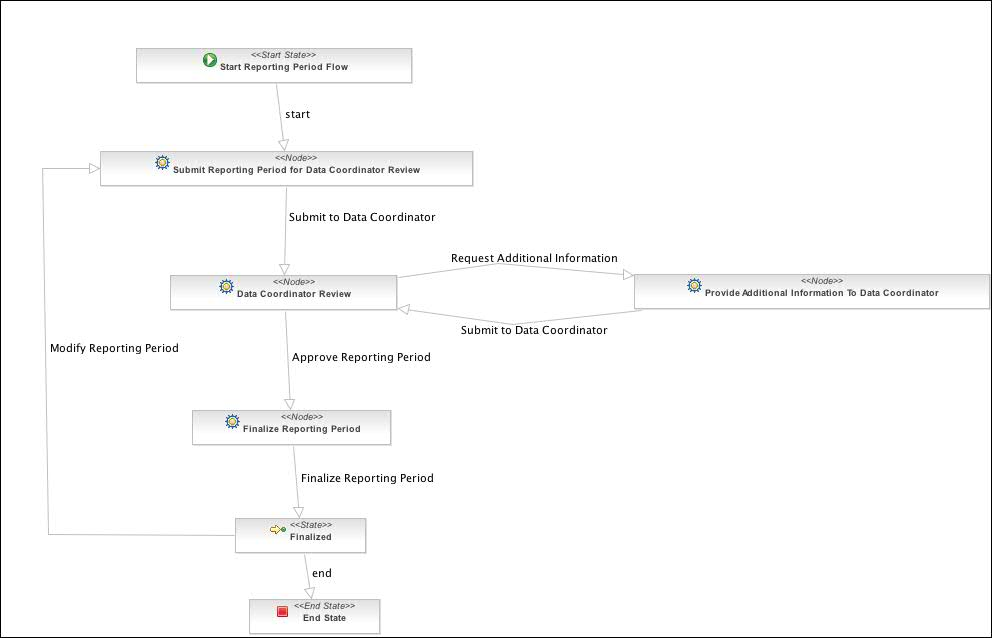
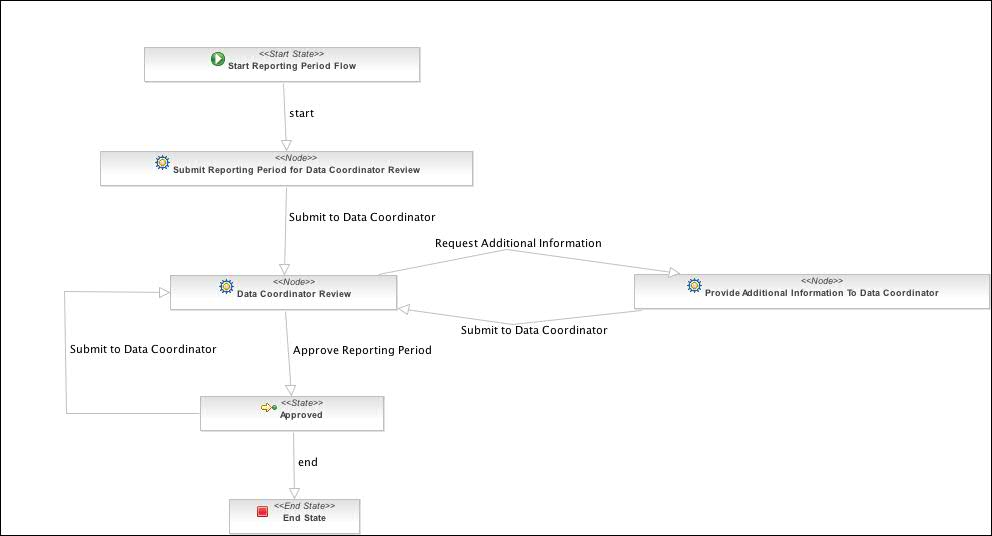
CAAERS-1305 - added bunch of tests, included filtering if actions are not there from the logged in person... All these changes are for the workflow.
SVN-Revision: 7884

diff --git a/projects/core/src/test/java/gov/nih/nci/cabig/caaers/service/workflow/WorkflowServiceImplTest.java b/projects/core/src/test/java/gov/nih/nci/cabig/caaers/service/workflow/WorkflowServiceImplTest.java
@@ -37,6 +37,7 @@ import org.jbpm.graph.exe.ExecutionContext;
 import org.jbpm.graph.exe.ProcessInstance;
 import org.jbpm.graph.exe.Token;
 import org.jbpm.taskmgmt.exe.TaskMgmtInstance;
+import org.springframework.mail.MailSendException;
 import org.springmodules.workflow.jbpm31.JbpmTemplate;
 /**
  * 
@@ -227,6 +228,64 @@ public class WorkflowServiceImplTest extends AbstractTestCase {
 		EasyMock.expect(wfConfigDao.getByWorkflowDefinitionName(processDefinition.getName())).andReturn(wfConfig);
 		EasyMock.expect(template.execute(callback)).andReturn(null);
 		caaersJavaMailSender.sendMail((String[])EasyMock.anyObject(), (String)EasyMock.anyObject(), (String) EasyMock.anyObject(), (String[])EasyMock.anyObject());
+		//expect(configuration.get(Configuration.CAAERS_BASE_URL)).andReturn("www.abcd.com");
+		replayMocks();
+		wfService.setCaaersJavaMailSender(caaersJavaMailSender);
+		wfService.createTaskInstances(callback);
+		verifyMocks();
+	}
+	
+	
+	public void testCreatTaskInstances_ThrowingMailSendException() {
+		String nodeName = "a1";
+		
+		List<User> taskAssigneesList = new ArrayList<User>();
+		Investigator inv1 = Fixtures.createInvestigator("test1");
+		inv1.setEmailAddress("joel1@abc.com");
+		inv1.setLoginId("joel1@abc.com");
+		
+		Investigator inv2 = Fixtures.createInvestigator("test2");
+		inv2.setEmailAddress("joel2@abc.com");
+		inv2.setLoginId("joel2@abc.com");
+		
+		taskAssigneesList.add(inv1);
+		taskAssigneesList.add(inv2);
+		
+
+		ProcessDefinition processDefinition = new ProcessDefinition();
+		processDefinition.setName("Test");
+		ProcessInstance pInstance = new ProcessInstance();
+		pInstance.setProcessDefinition(processDefinition);
+		
+		final Node node = new Node();
+		node.setName(nodeName);
+		
+		Token token = new Token();
+		token.setNode(node);
+		token.setProcessInstance(pInstance);
+		final TaskMgmtInstance taskMgmtInstance = registerMockFor(TaskMgmtInstance.class);
+		
+		ExecutionContext executionContext = new ExecutionContext(token){
+			@Override
+			public TaskMgmtInstance getTaskMgmtInstance() {
+				return taskMgmtInstance;
+			}
+			@Override
+			public ContextInstance getContextInstance() {
+				ContextInstance c = super.getContextInstance();
+				Map variables = new HashMap();
+				c.setVariables(variables);
+				return c;
+			}
+		};
+		
+		
+		CaaersJavaMailSender caaersJavaMailSender = registerMockFor(CaaersJavaMailSender.class);
+		CreateTaskJbpmCallback callback = new CreateTaskJbpmCallback(executionContext, taskAssigneesList);
+		EasyMock.expect(wfConfigDao.getByWorkflowDefinitionName(processDefinition.getName())).andReturn(wfConfig);
+		EasyMock.expect(template.execute(callback)).andReturn(null);
+		caaersJavaMailSender.sendMail((String[])EasyMock.anyObject(), (String)EasyMock.anyObject(), (String) EasyMock.anyObject(), (String[])EasyMock.anyObject());
+		EasyMock.expectLastCall().andThrow(new MailSendException("Test"));
 		//expect(configuration.get(Configuration.CAAERS_BASE_URL)).andReturn("www.abcd.com");
 		replayMocks();
 		wfService.setCaaersJavaMailSender(caaersJavaMailSender);

diff --git a/projects/core/src/test/java/gov/nih/nci/cabig/caaers/service/workflow/WorkflowServiceImplIntegrationTest.java b/projects/core/src/test/java/gov/nih/nci/cabig/caaers/service/workflow/WorkflowServiceImplIntegrationTest.java
@@ -75,7 +75,7 @@ public class WorkflowServiceImplIntegrationTest extends CaaersDbTestCase {
 			assertFalse(nextTransitions.isEmpty());
 			assertEquals(1, nextTransitions.size());
 			assertEquals("Approve Reporting Period", nextTransitions.get(0).getName());
-			assertEquals("Finalize Reporting Period", nextTransitions.get(0).getTo().getName());
+			assertEquals("Approved", nextTransitions.get(0).getTo().getName());
 		}
 	}
 	public void testNextTransitionNames() {
@@ -110,7 +110,7 @@ public class WorkflowServiceImplIntegrationTest extends CaaersDbTestCase {
 			assertFalse(nextTransitions.isEmpty());
 			assertEquals(1, nextTransitions.size());
 			assertEquals("Approve Reporting Period", nextTransitions.get(0).getName());
-			assertEquals("Finalize Reporting Period", nextTransitions.get(0).getTo().getName());
+			assertEquals("Approved", nextTransitions.get(0).getTo().getName());
 		}
 	}
 	
@@ -145,18 +145,17 @@ public class WorkflowServiceImplIntegrationTest extends CaaersDbTestCase {
 		{
 			List<Transition> nextTransitions = wfService.nextTransitions(id, loginId);
 			assertEquals("Approve Reporting Period", nextTransitions.get(0).getName());
-			assertEquals("Finalize Reporting Period", nextTransitions.get(0).getTo().getName());
+			assertEquals("Approved", nextTransitions.get(0).getTo().getName());
 			nextTransition = "Approve Reporting Period";
 		}
 		interruptSession();
 		{
 			ReviewStatus status = wfService.advanceWorkflow(id, nextTransition);
-			assertEquals(ReviewStatus.READY_FOR_FINALIZE, status);
+			assertEquals(ReviewStatus.APPROVED, status);
 			List<TaskInstance> taskInstances = wfService.fetchTaskInstances("datacoordinator@abc.com");
 			assertNotNull(taskInstances);
-			assertFalse(taskInstances.isEmpty());
-			assertEquals("Finalize Reporting Period", taskInstances.get(0).getName());
-			assertEquals("Only one task to be created",1, taskInstances.size());
+			assertTrue(taskInstances.isEmpty());
+			
 		}
 		
 		
@@ -183,10 +182,10 @@ public class WorkflowServiceImplIntegrationTest extends CaaersDbTestCase {
 		String nextTransition ="Approve Reporting Period";
 		{
 			ReviewStatus status = wfService.advanceWorkflow(id.intValue(), nextTransition);
-			assertEquals(ReviewStatus.READY_FOR_FINALIZE, status);
+			assertEquals(ReviewStatus.APPROVED, status);
 			List<TaskInstance> taskInstances = wfService.fetchTaskInstances("datacoordinator@abc.com");
 			assertNotNull(taskInstances);
-			assertFalse(taskInstances.isEmpty());
+			assertTrue(taskInstances.isEmpty());
 		}
 		interruptSession();
 		{

diff --git a/projects/core/src/test/java/gov/nih/nci/cabig/caaers/domain/dto/AdverseEventReportingPeriodDTOTest.java b/projects/core/src/test/java/gov/nih/nci/cabig/caaers/domain/dto/AdverseEventReportingPeriodDTOTest.java
@@ -1,0 +1,48 @@
+package gov.nih.nci.cabig.caaers.domain.dto;
+
+import java.util.ArrayList;
+import java.util.List;
+
+import junit.framework.TestCase;
+
+public class AdverseEventReportingPeriodDTOTest extends TestCase {
+	AdverseEventReportingPeriodDTO dto;
+	
+	protected void setUp() throws Exception {
+		super.setUp();
+		dto = new AdverseEventReportingPeriodDTO();
+		
+	}
+
+	public void testHasActionsToDo() {
+		assertFalse(dto.hasActionsToDo());
+	}
+	
+	public void testHasActionsToDo_WhenReportingPeriodHasOne(){
+		List<String> actions = new ArrayList<String>();
+		actions.add("something");
+		dto.setPossibleActions(actions);
+		assertTrue(dto.hasActionsToDo());
+	}
+	
+	public void testHasActionsToDo_IfAeReportHasOne() {
+		ExpeditedAdverseEventReportDTO ae1 = new ExpeditedAdverseEventReportDTO();
+		List<String> actions = new ArrayList<String>();
+		actions.add("something");
+		ae1.setPossibleActions(actions);
+		dto.addAdverseEventAeReportDTO(ae1);
+		assertTrue(dto.hasActionsToDo());
+	}
+	public void testHasActionsToDo_IfAeReportHasNone() {
+		ExpeditedAdverseEventReportDTO ae1 = new ExpeditedAdverseEventReportDTO();
+		
+		dto.addAdverseEventAeReportDTO(ae1);
+		assertFalse(dto.hasActionsToDo());
+	}
+	public void testHasActionsToDo_WhenReportingPeriodHasOneAndAeReportHasNone(){
+		List<String> actions = new ArrayList<String>();
+		actions.add("something");
+		dto.setPossibleActions(actions);
+		assertTrue(dto.hasActionsToDo());
+	}
+}

diff --git a/projects/core/src/test/java/gov/nih/nci/cabig/caaers/domain/workflow/WorkflowConfigTest.java b/projects/core/src/test/java/gov/nih/nci/cabig/caaers/domain/workflow/WorkflowConfigTest.java
@@ -1,0 +1,45 @@
+package gov.nih.nci.cabig.caaers.domain.workflow;
+
+import junit.framework.TestCase;
+
+public class WorkflowConfigTest extends TestCase {
+	WorkflowConfig wfConfig;
+	protected void setUp() throws Exception {
+		super.setUp();
+		wfConfig = new WorkflowConfig();
+		TaskConfig t1 = new TaskConfig();
+		t1.setTaskName("abcd");
+		t1.setApplicable(true);
+		
+		TaskConfig t2 = new TaskConfig();
+		t2.setTaskName("efg");
+		t2.setApplicable(true);
+		
+		wfConfig.addTaskConfigs(t1);
+		wfConfig.addTaskConfigs(t2);
+	}
+
+	public void testAddTaskConfigs() {
+		TaskConfig t3 = new TaskConfig();
+		t3.setTaskName("hijk");
+		t3.setApplicable(true);
+		wfConfig.addTaskConfigs(t3);
+		
+		assertSame(t3, wfConfig.getTaskConfigs().get(2));
+	}
+
+	public void testIsTaskActive() {
+		boolean active = wfConfig.isTaskActive("abcd");
+		assertTrue(active);
+	}
+
+	public void testFindTaskConfig() {
+		TaskConfig t4 = new TaskConfig();
+		t4.setTaskName("kkk");
+		t4.setApplicable(true);
+		assertNull(wfConfig.findTaskConfig("kkk"));
+		wfConfig.addTaskConfigs(t4);
+		assertSame(t4, wfConfig.findTaskConfig("kkk"));
+	}
+
+}

diff --git a/projects/core/src/main/java/gov/nih/nci/cabig/caaers/domain/repository/AdverseEventRoutingAndReviewRepositoryImpl.java b/projects/core/src/main/java/gov/nih/nci/cabig/caaers/domain/repository/AdverseEventRoutingAndReviewRepositoryImpl.java
@@ -245,12 +245,11 @@ public class AdverseEventRoutingAndReviewRepositoryImpl implements AdverseEventR
 		
 		List<AdverseEventReportingPeriod> reportingPeriods = adverseEventReportingPeriodDao.findAdverseEventReportingPeriods(query);
 		
-		
+
 		List<AdverseEventReportingPeriodDTO> reportingPeriodDtos = new ArrayList<AdverseEventReportingPeriodDTO>();
 		for(AdverseEventReportingPeriod reportingPeriod : reportingPeriods){
 			if(reportingPeriod.getWorkflowId() != null && isReportingPeriodHavingSpecifiedReviewStatus(reportingPeriod, reviewStatus)){
 				AdverseEventReportingPeriodDTO rpDto = routingAndReviewFactory.createAdverseEventEvalutionPeriodDTO(reportingPeriod, userId);
-				reportingPeriodDtos.add(rpDto);	
 				
 				//check the Reports
 				if(reportingPeriod.getAeReports() != null){
@@ -261,6 +260,8 @@ public class AdverseEventRoutingAndReviewRepositoryImpl implements AdverseEventR
 					}//aereport
 				}
 				
+				//only add the dto, if there is action to do.
+				if(rpDto.hasActionsToDo()) reportingPeriodDtos.add(rpDto);	
 			}
 			
 		}

diff --git a/projects/core/src/test/java/gov/nih/nci/cabig/caaers/domain/workflow/TaskConfigTest.java b/projects/core/src/test/java/gov/nih/nci/cabig/caaers/domain/workflow/TaskConfigTest.java
@@ -1,0 +1,35 @@
+package gov.nih.nci.cabig.caaers.domain.workflow;
+
+import junit.framework.TestCase;
+
+public class TaskConfigTest extends TestCase {
+	TaskConfig taskConfig;
+	protected void setUp() throws Exception {
+		super.setUp();
+		taskConfig = new TaskConfig();
+		taskConfig.setTaskName("abcd");
+	}
+
+	public void testAddTransition() {
+		TransitionConfig t1 = new TransitionConfig();
+		assertNull(taskConfig.getTransitions());
+		taskConfig.addTransition(t1);
+		assertNotNull(taskConfig.getTransitions());
+		assertSame(t1, taskConfig.getTransitions().get(0));
+	}
+
+	public void testFindTransitionConfig() {
+		TransitionConfig t1 = new TransitionConfig();
+		t1.setTransitionName("abcd");
+		
+		TransitionConfig t2 = new TransitionConfig();
+		t2.setTransitionName("efg");
+		
+		taskConfig.addTransition(t1);
+		taskConfig.addTransition(t2);
+		
+		assertSame(t1,taskConfig.findTransitionConfig("abcd"));
+		assertNull(taskConfig.findTransitionConfig(null));
+	}
+
+}

diff --git a/projects/core/src/test/java/gov/nih/nci/cabig/caaers/domain/workflow/ReviewCommentTest.java b/projects/core/src/test/java/gov/nih/nci/cabig/caaers/domain/workflow/ReviewCommentTest.java
@@ -1,0 +1,28 @@
+package gov.nih.nci.cabig.caaers.domain.workflow;
+
+import org.apache.commons.lang.StringUtils;
+
+import junit.framework.TestCase;
+
+public class ReviewCommentTest extends TestCase {
+	ReviewComment comment;
+	protected void setUp() throws Exception {
+		super.setUp();
+		comment = new ReportingPeriodReviewComment();
+	}
+
+	public void testGetFullComment() {
+		assertTrue(StringUtils.isEmpty(comment.getFullComment()));
+		comment.setAutoGeneratedText("Hello");
+		assertEquals("Hello", comment.getFullComment());
+		comment.setAutoGeneratedText(null);
+		assertTrue(StringUtils.isEmpty(comment.getFullComment()));
+		comment.setUserComment("World");
+		System.out.println(comment.getFullComment());
+		assertEquals(" : World", comment.getFullComment());
+		
+		comment.setAutoGeneratedText("Hello");
+		assertEquals("Hello : World", comment.getFullComment());
+	}
+
+}

diff --git a/projects/core/src/test/java/gov/nih/nci/cabig/caaers/domain/dto/ExpeditedAdverseEventReportDTOTest.java b/projects/core/src/test/java/gov/nih/nci/cabig/caaers/domain/dto/ExpeditedAdverseEventReportDTOTest.java
@@ -1,0 +1,32 @@
+package gov.nih.nci.cabig.caaers.domain.dto;
+
+import java.util.ArrayList;
+import java.util.List;
+
+import junit.framework.TestCase;
+/**
+ * 
+ * @author Biju Joseph
+ *
+ */
+public class ExpeditedAdverseEventReportDTOTest extends TestCase {
+	ExpeditedAdverseEventReportDTO dto;
+	
+	protected void setUp() throws Exception {
+		super.setUp();
+		dto = new ExpeditedAdverseEventReportDTO();
+		
+	}
+
+	public void testHasActionsToDo() {
+		assertFalse(dto.hasActionsToDo());
+	}
+	public void testHasActionsToDo_WhenActionIsThere() {
+		List<String> actions = new ArrayList<String>();
+		actions.add("xyz");
+		dto.setPossibleActions(actions);
+		assertTrue(dto.hasActionsToDo());
+	}
+	
+
+}

diff --git a/projects/core/src/test/java/gov/nih/nci/cabig/caaers/domain/repository/AdverseEventRoutingAndReviewRepositoryImplTest.java b/projects/core/src/test/java/gov/nih/nci/cabig/caaers/domain/repository/AdverseEventRoutingAndReviewRepositoryImplTest.java
@@ -184,6 +184,9 @@ public class AdverseEventRoutingAndReviewRepositoryImplTest extends CaaersNoSecu
 		
 		AdverseEventReportingPeriodDTO rpDto = new AdverseEventReportingPeriodDTO();
 		ExpeditedAdverseEventReportDTO rDto = new ExpeditedAdverseEventReportDTO();
+		List<String> possibleActions = new ArrayList<String>();
+		possibleActions.add("abc");
+		rDto.setPossibleActions(possibleActions);
 		EasyMock.expect(rpDao.findAdverseEventReportingPeriods((AdverseEventReportingPeriodForReviewQuery) EasyMock.anyObject())).andReturn(reportingPeriods);
 	
 		EasyMock.expect(factory.createAdverseEventEvalutionPeriodDTO(rp, userId)).andReturn(rpDto);

diff --git a/projects/core/src/test/java/gov/nih/nci/cabig/caaers/domain/workflow/TransitionConfigTest.java b/projects/core/src/test/java/gov/nih/nci/cabig/caaers/domain/workflow/TransitionConfigTest.java
@@ -1,0 +1,18 @@
+package gov.nih.nci.cabig.caaers.domain.workflow;
+
+import junit.framework.TestCase;
+
+public class TransitionConfigTest extends TestCase {
+	TransitionConfig tranConf;
+	protected void setUp() throws Exception {
+		super.setUp();
+		tranConf = new TransitionConfig();
+	}
+
+	public void testAddTransitionOwner() {
+		tranConf.addTransitionOwner(new PersonTransitionOwner());
+		assertNotNull(tranConf.getOwners());
+		assertEquals(1, tranConf.getOwners().size());
+	}
+
+}

diff --git a/projects/core/src/main/java/gov/nih/nci/cabig/caaers/domain/ReviewStatus.java b/projects/core/src/main/java/gov/nih/nci/cabig/caaers/domain/ReviewStatus.java
@@ -21,8 +21,7 @@ public enum ReviewStatus implements CodedEnum<Integer> {
     SUBMIT_TO_SPONSOR (7, "Ready for Submission to Sponsor "),
     DATA_COORDINATOR_REVIEW(8, "Data Coordinator Review"),
     DATA_COORDINATOR_ADDITIONAL_INFO(9,"Additional Info Requested By Data Coordinator"),
-    READY_FOR_FINALIZE(10, "Ready For Finalizing"),
-    FINALIZED(11, "Finalized"),
+    APPROVED(11, "Approved"),
     SUBMITTED_TO_SPONSOR(12, "Submitted to Sponsor");
     
     private Integer code;

diff --git a/projects/core/src/main/java/gov/nih/nci/cabig/caaers/domain/dto/AdverseEventReportingPeriodDTO.java b/projects/core/src/main/java/gov/nih/nci/cabig/caaers/domain/dto/AdverseEventReportingPeriodDTO.java
@@ -138,4 +138,14 @@ public class AdverseEventReportingPeriodDTO {
 	public void setDcpSponsoredStudy(boolean dcpSponsoredStudy) {
 		this.dcpSponsoredStudy = dcpSponsoredStudy;
 	}
+	
+	public boolean hasActionsToDo(){
+		boolean hasActions = possibleActions != null && possibleActions.size() > 0;
+		if(!hasActions && aeReports != null){
+			for(ExpeditedAdverseEventReportDTO aeReportDTO : aeReports){
+				hasActions |= aeReportDTO.hasActionsToDo();
+			}
+		}
+		return hasActions;
+	}
 }
